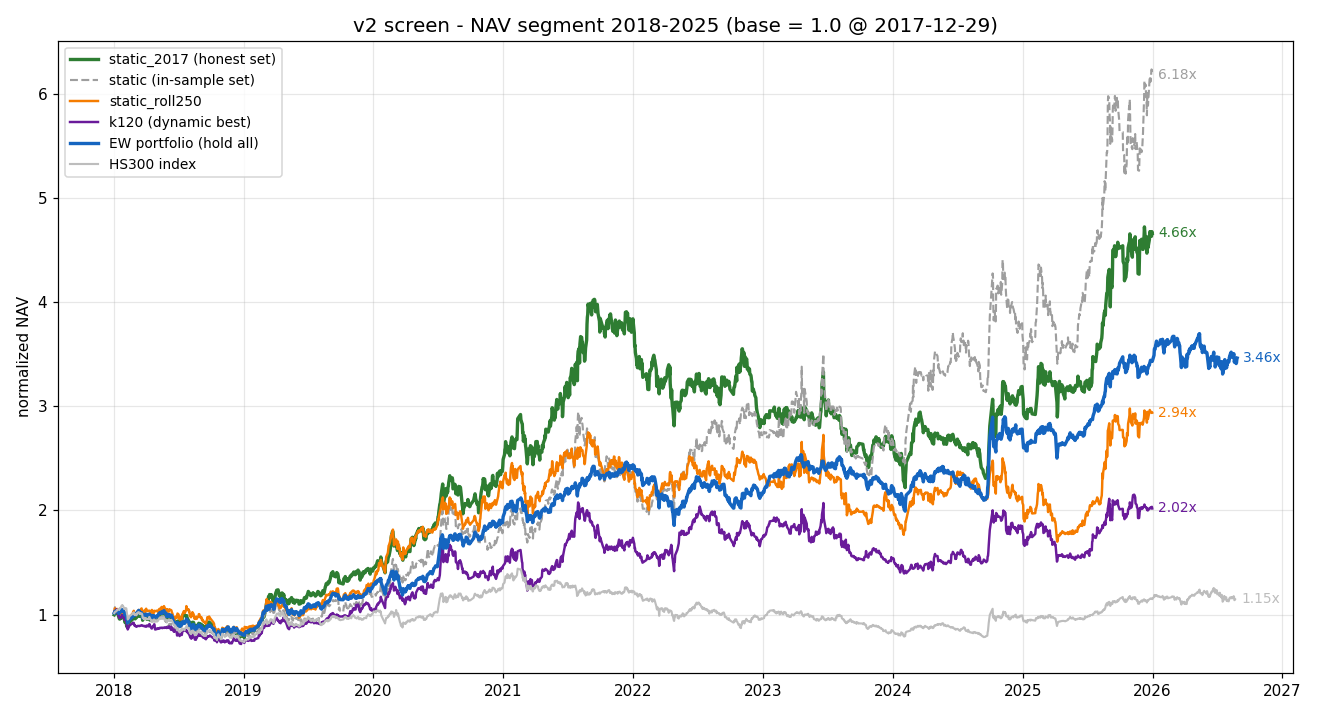
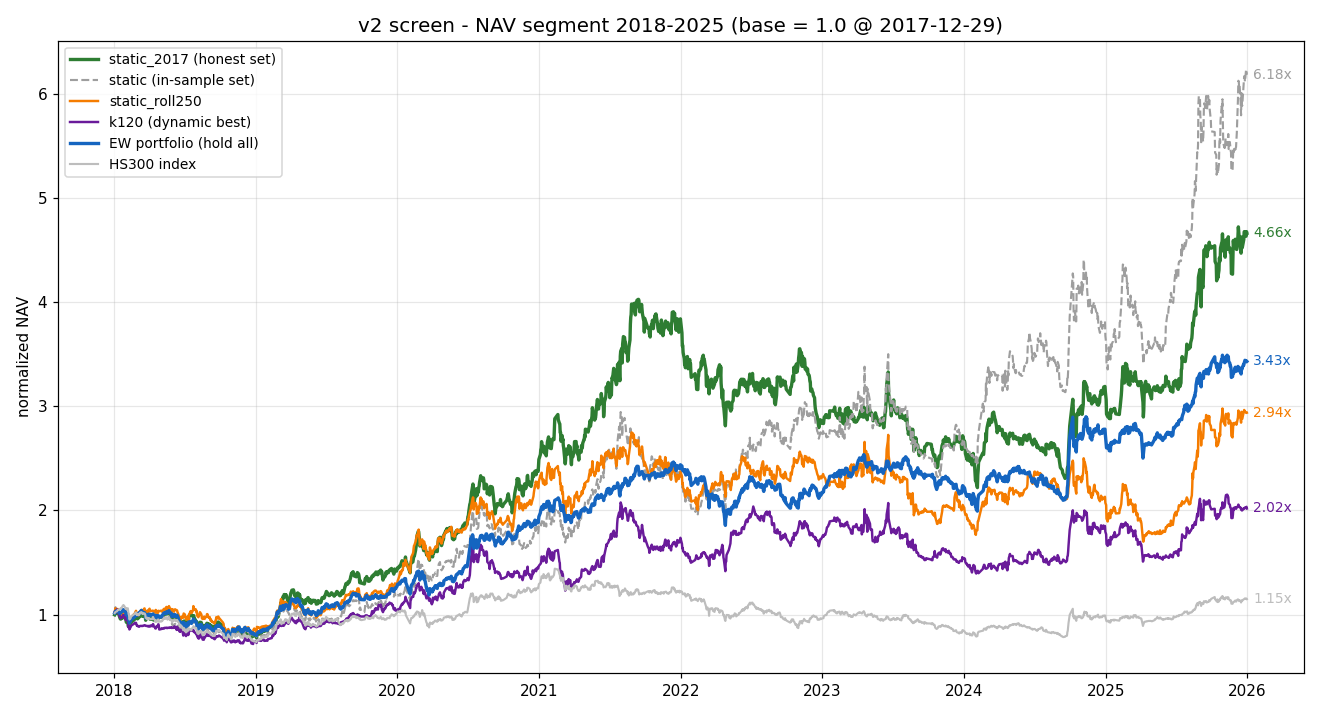
v3 resonance charts (full/segment/drawdown); unify all series to 2025-12-31; corrected benchmark anchors (EW seg 16.67%/-26.1%/0.874)

diff --git a/examples/plot_v3_resonance_curves.py b/examples/plot_v3_resonance_curves.py
@@ -1,0 +1,130 @@
+"""v3 resonance framework charts:
+  01: NAV full 2010-2025 (log scale) — 4 configs + EW + HS300
+  02: NAV segment 2018-2025 (base=1 @ 2017-12-29)
+  03: drawdown segment 2018-2025 — 4 configs + HS300 index
+Output -> evidence/v3_resonance_20261010/charts/
+"""
+import pathlib
+
+import numpy as np
+import pandas as pd
+import matplotlib
+matplotlib.use("Agg")
+import matplotlib.pyplot as plt
+
+AKQ = pathlib.Path("/media/felix/f/quant/akquant-factor-backtest")
+OUT = AKQ / "evidence" / "v3_resonance_20261010"
+CH = OUT / "charts"
+CH.mkdir(parents=True, exist_ok=True)
+BENCH = AKQ / "evidence" / "v2_screen_20261010" / "charts"
+
+CONFIGS = {
+    "v1 (sell P90)":        ("V14_0",   "#9e9e9e", 1.3, "--"),
+    "hyst (sell P50)":      ("V3_hyst", "#8e24aa", 1.5, "-"),
+    "cd3 (cooldown 3)":     ("V3_cd3",  "#2e7d32", 2.4, "-"),
+    "g10 (grid 10)":        ("V3_g10",  "#f57c00", 1.5, "-"),
+}
+
+
+def load_nav(p):
+    df = pd.read_csv(p)
+    dcol = "date" if "date" in df.columns else "d"
+    df = df[[dcol, "value"]].rename(columns={dcol: "date"}).copy()
+    df["date"] = pd.to_datetime(df["date"])
+    df = df[df["date"] <= pd.Timestamp("2025-12-31")]
+    return df.sort_values("date").reset_index(drop=True)
+
+
+def seg_base(df, base_ts):
+    seg = df[df["date"] >= base_ts].copy()
+    pre = df[df["date"] < base_ts]
+    base = float(pre["value"].iloc[-1]) if len(pre) else float(seg["value"].iloc[0])
+    seg["norm"] = seg["value"] / base
+    return seg
+
+
+def main():
+    navs = {k: load_nav(OUT / "sims" / v[0] / "nav.csv") for k, v in CONFIGS.items()}
+    ew = load_nav(BENCH / "ew_nav.csv")
+    ix = load_nav(BENCH / "hs300_nav.csv")
+    B2018 = pd.Timestamp("2018-01-01")
+    B2010 = pd.Timestamp("2010-01-04")
+
+    # ---- 01 full log ----
+    fig, ax = plt.subplots(figsize=(12, 6.5), dpi=110)
+    for label, (tag, color, lw, ls) in CONFIGS.items():
+        seg = seg_base(navs[label], B2010)
+        ax.plot(seg["date"], seg["norm"], color=color, lw=lw, ls=ls, label=label)
+    for label, src, color, lw in [("EW portfolio", ew, "#1565c0", 2.0), ("HS300 index", ix, "#bdbdbd", 1.4)]:
+        seg = seg_base(src, B2010)
+        ax.plot(seg["date"], seg["norm"], color=color, lw=lw, label=label)
+        y = seg["norm"].iloc[-1]
+        ax.annotate(f"{y:.2f}x", (seg["date"].iloc[-1], y), xytext=(4, 0),
+                    textcoords="offset points", fontsize=9, color=color, va="center")
+    for label, (tag, color, lw, ls) in CONFIGS.items():
+        seg = seg_base(navs[label], B2010)
+        y = seg["norm"].iloc[-1]
+        ax.annotate(f"{y:.2f}x", (seg["date"].iloc[-1], y), xytext=(4, 0),
+                    textcoords="offset points", fontsize=9, color=color, va="center")
+    ax.set_yscale("log")
+    ax.set_yticks([0.5, 1, 2, 5, 10, 20])
+    ax.set_yticklabels(["0.5x", "1x", "2x", "5x", "10x", "20x"])
+    ax.set_title("v3 resonance framework - NAV full 2010-2025 (log scale, base = 1.0 @ 2010-01-04)", fontsize=13)
+    ax.set_ylabel("normalized NAV (log)")
+    ax.grid(alpha=0.3, which="both")
+    ax.legend(fontsize=9, loc="upper left")
+    fig.tight_layout()
+    fig.savefig(CH / "01_nav_full_2010_2025_log.png")
+    plt.close(fig)
+
+    # ---- 02 segment ----
+    fig, ax = plt.subplots(figsize=(12, 6.5), dpi=110)
+    for label, (tag, color, lw, ls) in CONFIGS.items():
+        seg = seg_base(navs[label], B2018)
+        ax.plot(seg["date"], seg["norm"], color=color, lw=lw, ls=ls, label=label)
+        y = seg["norm"].iloc[-1]
+        ax.annotate(f"{y:.2f}x", (seg["date"].iloc[-1], y), xytext=(4, 0),
+                    textcoords="offset points", fontsize=9, color=color, va="center")
+    for label, src, color, lw in [("EW portfolio", ew, "#1565c0", 2.0), ("HS300 index", ix, "#bdbdbd", 1.4)]:
+        seg = seg_base(src, B2018)
+        ax.plot(seg["date"], seg["norm"], color=color, lw=lw, label=label)
+        y = seg["norm"].iloc[-1]
+        ax.annotate(f"{y:.2f}x", (seg["date"].iloc[-1], y), xytext=(4, 0),
+                    textcoords="offset points", fontsize=9, color=color, va="center")
+    ax.axhline(1.0, color="#eeeeee", lw=0.8, zorder=0)
+    ax.set_title("v3 resonance framework - NAV segment 2018-2025 (base = 1.0 @ 2017-12-29)", fontsize=13)
+    ax.set_ylabel("normalized NAV")
+    ax.grid(alpha=0.3)
+    ax.legend(fontsize=9, loc="upper left")
+    fig.tight_layout()
+    fig.savefig(CH / "02_nav_segment_2018_2025.png")
+    plt.close(fig)
+
+    # ---- 03 drawdown segment ----
+    fig, ax = plt.subplots(figsize=(12, 5), dpi=110)
+    dd_sets = list(CONFIGS.items()) + [("HS300 index", (None, "#bdbdbd", 1.4, "-"))]
+    for label, (tag, color, lw, ls) in dd_sets:
+        src = ix if label == "HS300 index" else navs[label]
+        seg = seg_base(src, B2018)
+        v = seg["norm"].to_numpy()
+        peak = np.maximum.accumulate(v)
+        dd = v / peak - 1.0
+        ax.plot(seg["date"], dd * 100, color=color, lw=lw, ls=ls, label=label)
+        j = int(np.argmin(dd))
+        ax.annotate(f"{dd.min()*100:.1f}%", (seg["date"].iloc[j], dd.min() * 100),
+                    xytext=(0, -12), textcoords="offset points", fontsize=9, color=color, ha="center")
+    ax.set_title("v3 resonance framework - drawdown segment 2018-2025", fontsize=13)
+    ax.set_ylabel("drawdown %")
+    ax.grid(alpha=0.3)
+    ax.legend(fontsize=9, loc="lower left")
+    fig.tight_layout()
+    fig.savefig(CH / "03_drawdown_segment_2018_2025.png")
+    plt.close(fig)
+
+    for f in sorted(CH.glob("*.png")):
+        print(f)
+    print("done")
+
+
+if __name__ == "__main__":
+    main()

diff --git a/examples/plot_v2_screen_curves.py b/examples/plot_v2_screen_curves.py
@@ -48,6 +48,8 @@ def load_benchmarks():
     ix = ix[["d", "idx_close"]].rename(columns={"idx_close": "value"}).reset_index(drop=True)
     ew.to_csv(CH / "ew_nav.csv", index=False)
     ix.to_csv(CH / "hs300_nav.csv", index=False)
+    ew = ew[ew["d"] <= pd.Timestamp("2025-12-31")]
+    ix = ix[ix["d"] <= pd.Timestamp("2025-12-31")]
     return ew, ix
 
 

diff --git a/evidence/v2_screen_20261010/SCREEN_REPORT.md b/evidence/v2_screen_20261010/SCREEN_REPORT.md
@@ -56,13 +56,13 @@
 |---|---:|---:|---:|
 | HS300 指数（市值加权） | 1.75% | — | — |
 | 等权平均个股（271 只买持） | 14.53% | — | — |
-| **等权全池组合（日度再平衡，~324 只/日）** | **16.69%** | **−26.0%** | **0.875** |
+| **等权全池组合（日度再平衡，~324 只/日）** | **16.67%** | **−26.1%** | **0.874** |
 
 ### 关键读数
 
 1. **static_2017 诚实版扛住了 OOS**：21.23%（vs 全期内选 25.59%，仅衰减 −4.4pp）——固定集合不是全期调参的假象。
 2. **年度重选反而更差**（roll250 14.43%）→"冻结集合 > 低频重估"，至少在本窗口。
-3. **但相对等权基准：static_2017 Sharpe 0.877 ≈ 等权全池 0.875**——其 +4.5pp 超额收益是用深得多的回撤（−44.9% vs −26.0%）换来的小盘/流动性 beta 倾斜，**风险调整后没有 alpha**。
+3. **但相对等权基准：static_2017 Sharpe 0.877 ≈ 等权全池 0.874**——其 +4.5pp 超额收益是用深得多的回撤（−44.9% vs −26.1%）换来的小盘/流动性 beta 倾斜，**风险调整后没有 alpha**。
 4. **全部动态臂段内跑输等权基准**（7.9%–9.9%，ic 1.2%）。
 5. 本框架/本窗口结论：选股层相对"持有全池等权"无风险调整 alpha。
 

diff --git a/STRATEGIES/v3_resonance_framework.md b/STRATEGIES/v3_resonance_framework.md
@@ -48,7 +48,7 @@
 | V3_g10 | P50 | 1 | 10 | 5.13% | 61.5% | 11.09% | −39.3% | 0.541 | 3637 |
 
 段 = 2018-2025（真 OOS，阈值/方向均只用结算数据）。对照：HS300 指数段 1.75%/−45.6%；
-等权全池 16.69%/−26.1%；static_2017 21.23%/−44.9%；k120 9.18%/−32.9%。
+等权全池 16.67%/−26.1%；static_2017 21.23%/−44.9%；k120 9.18%/−32.9%。
 
 ## 5. 复现命令
 
